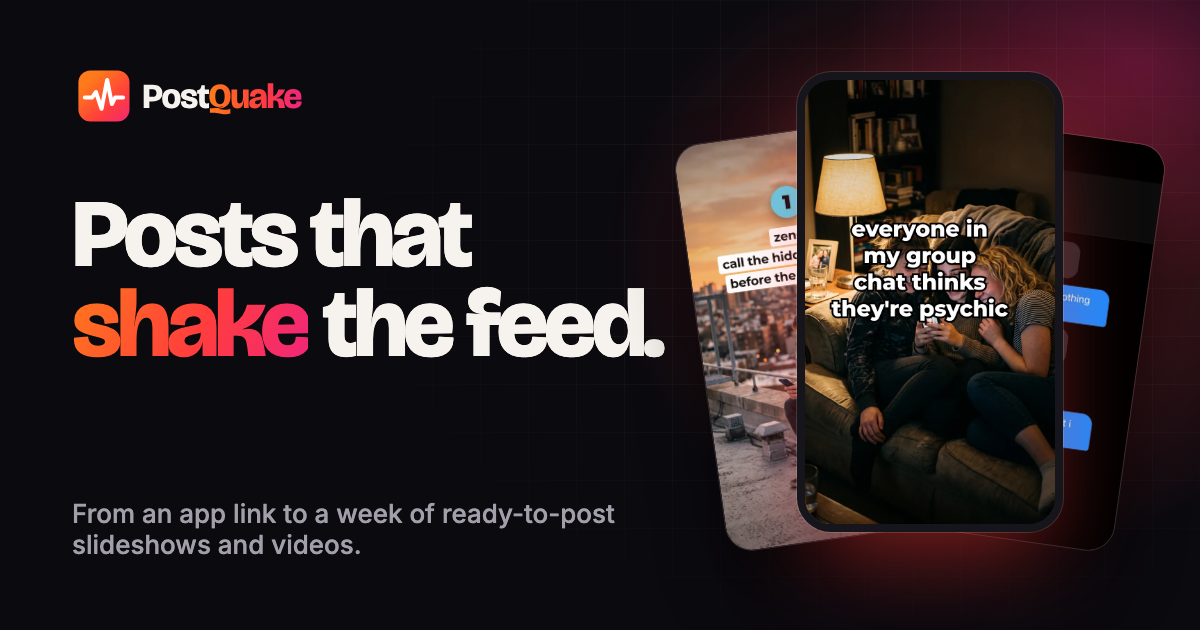
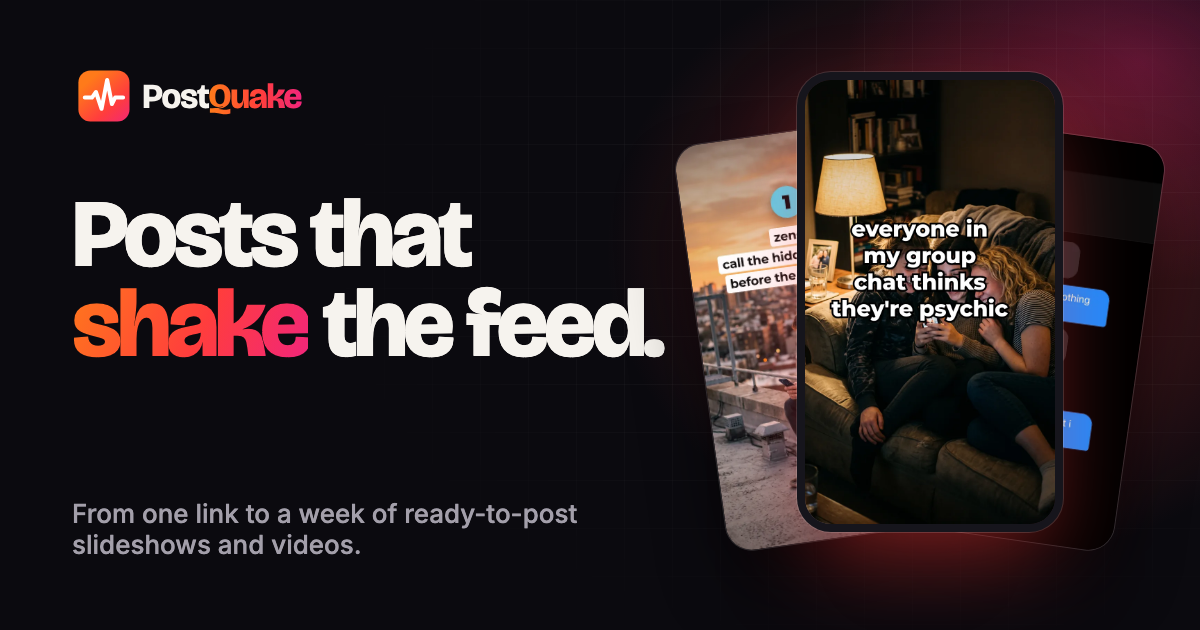
Position PostQuake for any product with a link, not only apps
The engine now imports any website on its own and screenshots it when
there's no store listing, so the site says so: the hero, meta and share
card speak to apps, websites, shops and newsletters; step 1 is "Import
your product"; format and roadmap copy say "product"; a new FAQ answers
"Is it only for apps?"; attribution covers sign-ups and sales; and the
roadmap lists shop and channel importers. Share image regenerated.

Changed region(s): [[0.1233, 0.7841, 0.5242, 0.8444]]

diff --git a/index.html b/index.html
@@ -4,7 +4,7 @@
   <meta charset="utf-8" />
   <meta name="viewport" content="width=device-width, initial-scale=1" />
   <title>PostQuake: Posts that shake the feed</title>
-  <meta name="description" content="Paste your App Store, Google Play or website link. PostQuake researches your customers, writes the hooks, and renders a week of TikTok-style slideshows and videos for TikTok, Reels, Shorts and Facebook." />
+  <meta name="description" content="Paste a link to your app, website, shop or newsletter. PostQuake researches your customers, writes the hooks, and renders a week of TikTok-style slideshows and videos for TikTok, Reels, Shorts and Facebook." />
   <meta name="theme-color" content="#0b0a0f" />
   <link rel="icon" href="favicon.svg" type="image/svg+xml" />
   <link rel="apple-touch-icon" href="assets/logo/postquake-app-icon-180.png" />
@@ -12,7 +12,7 @@
   <meta property="og:type" content="website" />
   <meta property="og:site_name" content="PostQuake" />
   <meta property="og:title" content="PostQuake: Posts that shake the feed" />
-  <meta property="og:description" content="From an app link to a week of ready-to-post slideshows and videos." />
+  <meta property="og:description" content="From one link to a week of ready-to-post slideshows and videos, for apps, websites, shops and more." />
   <meta property="og:image" content="https://postquake.app/assets/og-image.png" />
   <meta name="twitter:card" content="summary_large_image" />
 
@@ -66,7 +66,7 @@
           <a class="pill" href="#how"><b>Early access</b> Works with Claude Code, Codex &amp; Cursor</a>
           <h1>Posts that <span class="shake hot">shake</span> the feed.</h1>
           <p class="lede">
-            Paste your app's store link. PostQuake works out who it's for, writes hooks in
+            Paste a link to your app, website, shop or newsletter. PostQuake works out who it's for, writes hooks in
             <strong>your customers' own words</strong>, and renders a week of TikTok-style
             slideshows and videos, ready for TikTok, Reels, Shorts and Facebook.
           </p>
@@ -75,7 +75,7 @@
             <a class="btn btn-ghost" href="#output">See real output</a>
           </div>
           <ul class="hero-facts">
-            <li>App Store, Play or website</li>
+            <li>Apps, websites, shops &amp; more</li>
             <li>1080×1920 slides + MP4</li>
             <li>AI labels handled for you</li>
           </ul>
@@ -141,7 +141,7 @@
     <section class="problem">
       <div class="wrap">
         <p class="eyebrow reveal">The problem</p>
-        <h2 class="reveal" style="margin-top:22px">You shipped the app in a weekend. <span>Marketing it takes every single day.</span></h2>
+        <h2 class="reveal" style="margin-top:22px">You built it in a weekend. <span>Marketing it takes every single day.</span></h2>
 
         <div class="pain-grid">
           <article class="pain reveal">
@@ -178,8 +178,8 @@
             <li class="step active" data-step="0">
               <span class="num">01</span>
               <div>
-                <h3>Import your app</h3>
-                <p>Paste an App Store, Google Play or website link. PostQuake pulls the name, pitch, icon, screenshots and brand colours, and follows a website's links to both stores.</p>
+                <h3>Import your product</h3>
+                <p>Paste an App Store or Google Play link, or any website: a web app, a shop, a newsletter, a portfolio. PostQuake pulls the name, pitch, icon and brand colours, and takes screenshots from the store listing or from your site itself.</p>
               </div>
             </li>
             <li class="step" data-step="1">
@@ -281,7 +281,7 @@
             </div>
             <div class="body">
               <h3>Hook → Story → Card</h3>
-              <p>A relatable hook, a short story over two or three slides, then the app.</p>
+              <p>A relatable hook, a short story over two or three slides, then the product.</p>
               <div class="seq">hook · story ×2–3 · app · card</div>
             </div>
           </article>
@@ -294,7 +294,7 @@
             </div>
             <div class="body">
               <h3>Listicle</h3>
-              <p>"N things…" people save and send to a friend. The app shows up as the last item, never as a hard sell.</p>
+              <p>"N things…" people save and send to a friend. The product shows up as the last item, never as a hard sell.</p>
               <div class="seq">hook · item ×3–4 · app? · card</div>
             </div>
           </article>
@@ -409,7 +409,7 @@
           <div class="col now reveal">
             <header><h3>Now</h3><span class="tag ok">Shipping</span></header>
             <ul>
-              <li><span><b>App import</b> from App Store, Play or website</span></li>
+              <li><span><b>Import anything</b>: App Store, Play or any website, with screenshots of your site</span></li>
               <li><span><b>Customer research</b> in real customers' words</span></li>
               <li><span><b>3 formats</b> plus mock chat &amp; notification screens</span></li>
               <li><span><b>AI images</b> with cache and cost log</span></li>
@@ -427,7 +427,7 @@
               <li><span><b>Magnitude</b>: a performance score for every post</span></li>
               <li><span><b>Aftershocks</b>: follow-up posts built on a winning format</span></li>
               <li><span><b>Hook A/B variants</b></span></li>
-              <li><span><b>Install attribution</b> per post</span></li>
+              <li><span><b>Attribution</b> per post: installs, sign-ups, sales</span></li>
               <li><span><b>Brand kit</b> and image-model choice</span></li>
             </ul>
           </div>
@@ -436,7 +436,7 @@
             <ul>
               <li><span><b>Trend finder</b> for formats that are working now</span></li>
               <li><span><b>Format cloner</b> from a slideshow you like</span></li>
-              <li><span><b>Screen-recorded demos</b> of your real app</span></li>
+              <li><span><b>Screen-recorded demos</b> of your real app or site</span></li><li><span><b>Shop &amp; channel importers</b>: Shopify, Etsy, YouTube, newsletters</span></li>
               <li><span><b>Voiceover</b> and text-video formats</span></li>
               <li><span><b>More platforms</b>: Pinterest, LinkedIn, X, Threads</span></li>
               <li><span><b>Localization</b> and multi-client workspaces</span></li>
@@ -450,7 +450,7 @@
             <h3 style="font-size:30px;margin-top:14px">The Seismograph</h3>
             <p>Every post gets a Magnitude score for how hard it shook the feed. The ones that land get Aftershocks: fresh posts that reuse the winning format with new angles.</p>
             <dl>
-              <div><dt>Magnitude</dt> <dd>views, saves, shares and installs rolled into one score</dd></div>
+              <div><dt>Magnitude</dt> <dd>views, saves, shares and installs or sales rolled into one score</dd></div>
               <div><dt>Aftershocks</dt> <dd>more posts like your winners</dd></div>
             </dl>
           </div>
@@ -507,11 +507,11 @@
       <div class="wrap" style="position:relative">
         <p class="eyebrow">Early access</p>
         <h2>Stop making posts. <span class="hot">Start making waves.</span></h2>
-        <p class="sub">We're letting app makers in a few at a time while we dogfood PostQuake on our own game. Join the list and we'll send your invite.</p>
+        <p class="sub">We're letting makers in a few at a time while we dogfood PostQuake on our own game. Join the list and we'll send your invite.</p>
 
         <form class="signup" id="signup" novalidate>
           <label class="sr-only" for="email">Email address</label>
-          <input id="email" name="email" type="email" placeholder="you@yourapp.com" autocomplete="email" required />
+          <input id="email" name="email" type="email" placeholder="you@yourdomain.com" autocomplete="email" required />
           <button class="btn btn-hot" type="submit">Join the list <span class="arrow">→</span></button>
         </form>
         <p class="signup-note" id="signup-note" role="status">No spam. Just your invite and big releases.</p>
@@ -534,6 +534,10 @@
         </div>
 
         <div class="faq-list reveal">
+          <details>
+            <summary>Is it only for apps?</summary>
+            <p>No. Apps were our first customer, not the limit. Paste any website: a web app, an online shop, a newsletter, a portfolio, a course or a local business. When there's no store listing, PostQuake screenshots your site on a phone for the product slides and closes each set with your domain.</p>
+          </details>
           <details>
             <summary>Do I need to be a developer?</summary>
             <p>Today PostQuake runs through a coding agent like Claude Code, Codex or Cursor. You talk to the agent in plain English and it drives PostQuake for you, but you'll need to be comfortable opening one. A web app that anyone can use is next on the roadmap.</p>
@@ -564,7 +568,7 @@
           </details>
           <details>
             <summary>Who's behind PostQuake?</summary>
-            <p>An indie app team that built PostQuake to market our own game, Psychic Tournament, and kept going. Every feature gets tested on our own accounts before it reaches yours.</p>
+            <p>An indie team that built PostQuake to market our own game, Psychic Tournament, and kept going. Every feature gets tested on our own accounts before it reaches yours.</p>
           </details>
         </div>
       </div>
@@ -579,7 +583,7 @@
             <svg aria-hidden="true"><use href="#pq-mark" /></svg>
             PostQuake
           </a>
-          <p>From an app link to a week of ready-to-post slideshows and videos.</p>
+          <p>From one link to a week of ready-to-post slideshows and videos.</p>
         </div>
         <div>
           <h4>Product</h4>

diff --git a/tools/og-image.html b/tools/og-image.html
@@ -38,7 +38,7 @@
   <div class="grid"></div>
   <img class="logo" src="../assets/logo/postquake-wordmark-dark.svg" alt="" />
   <h1>Posts that <span>shake</span> the feed.</h1>
-  <p>From an app link to a week of ready-to-post slideshows and videos.</p>
+  <p>From one link to a week of ready-to-post slideshows and videos.</p>
   <div class="phones">
     <img class="a" src="../assets/showcase/li-02.webp" alt="" />
     <img class="c" src="../assets/showcase/ba-02.webp" alt="" />
